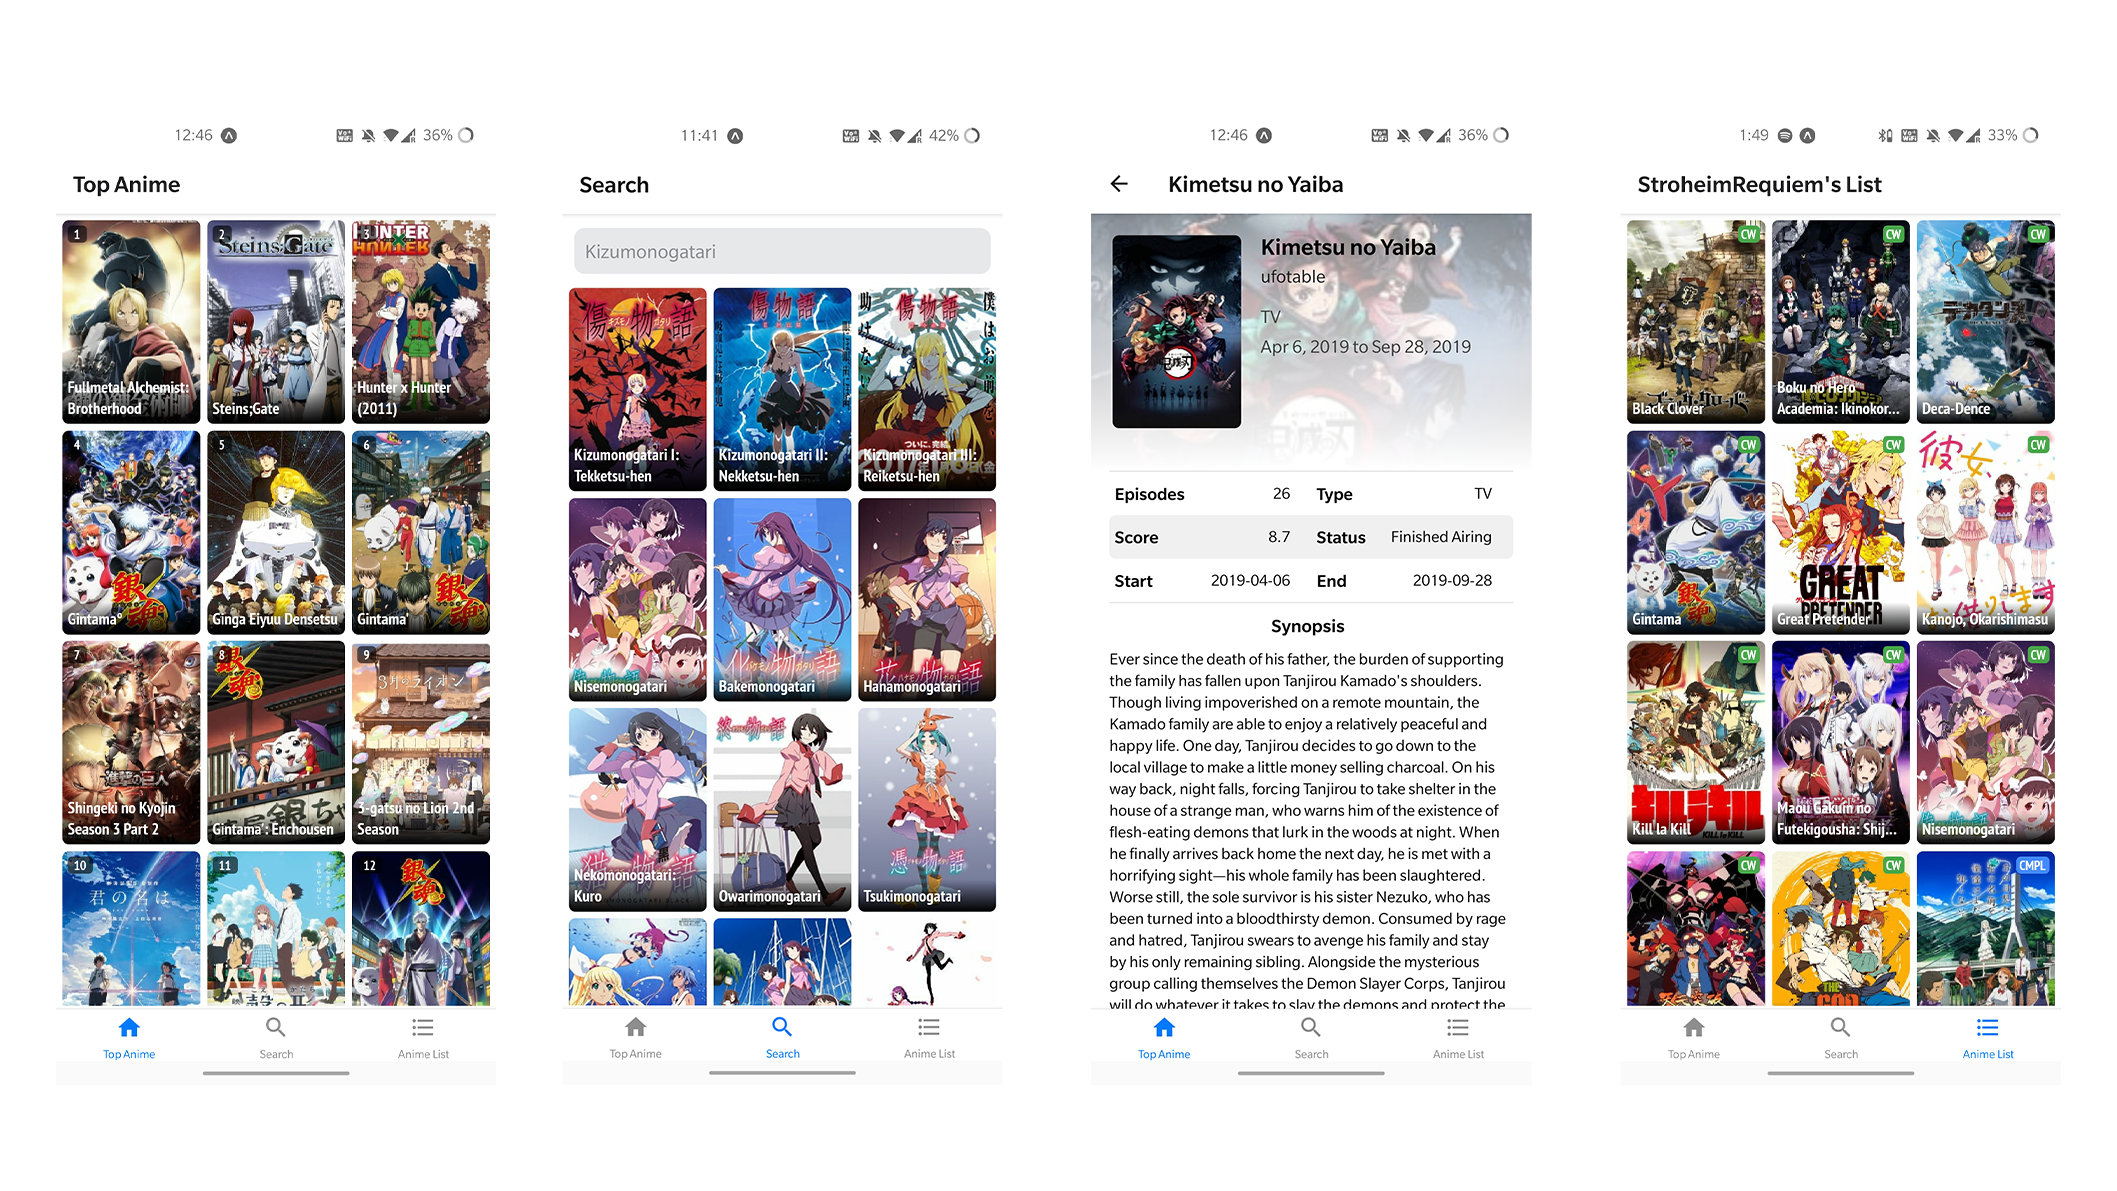
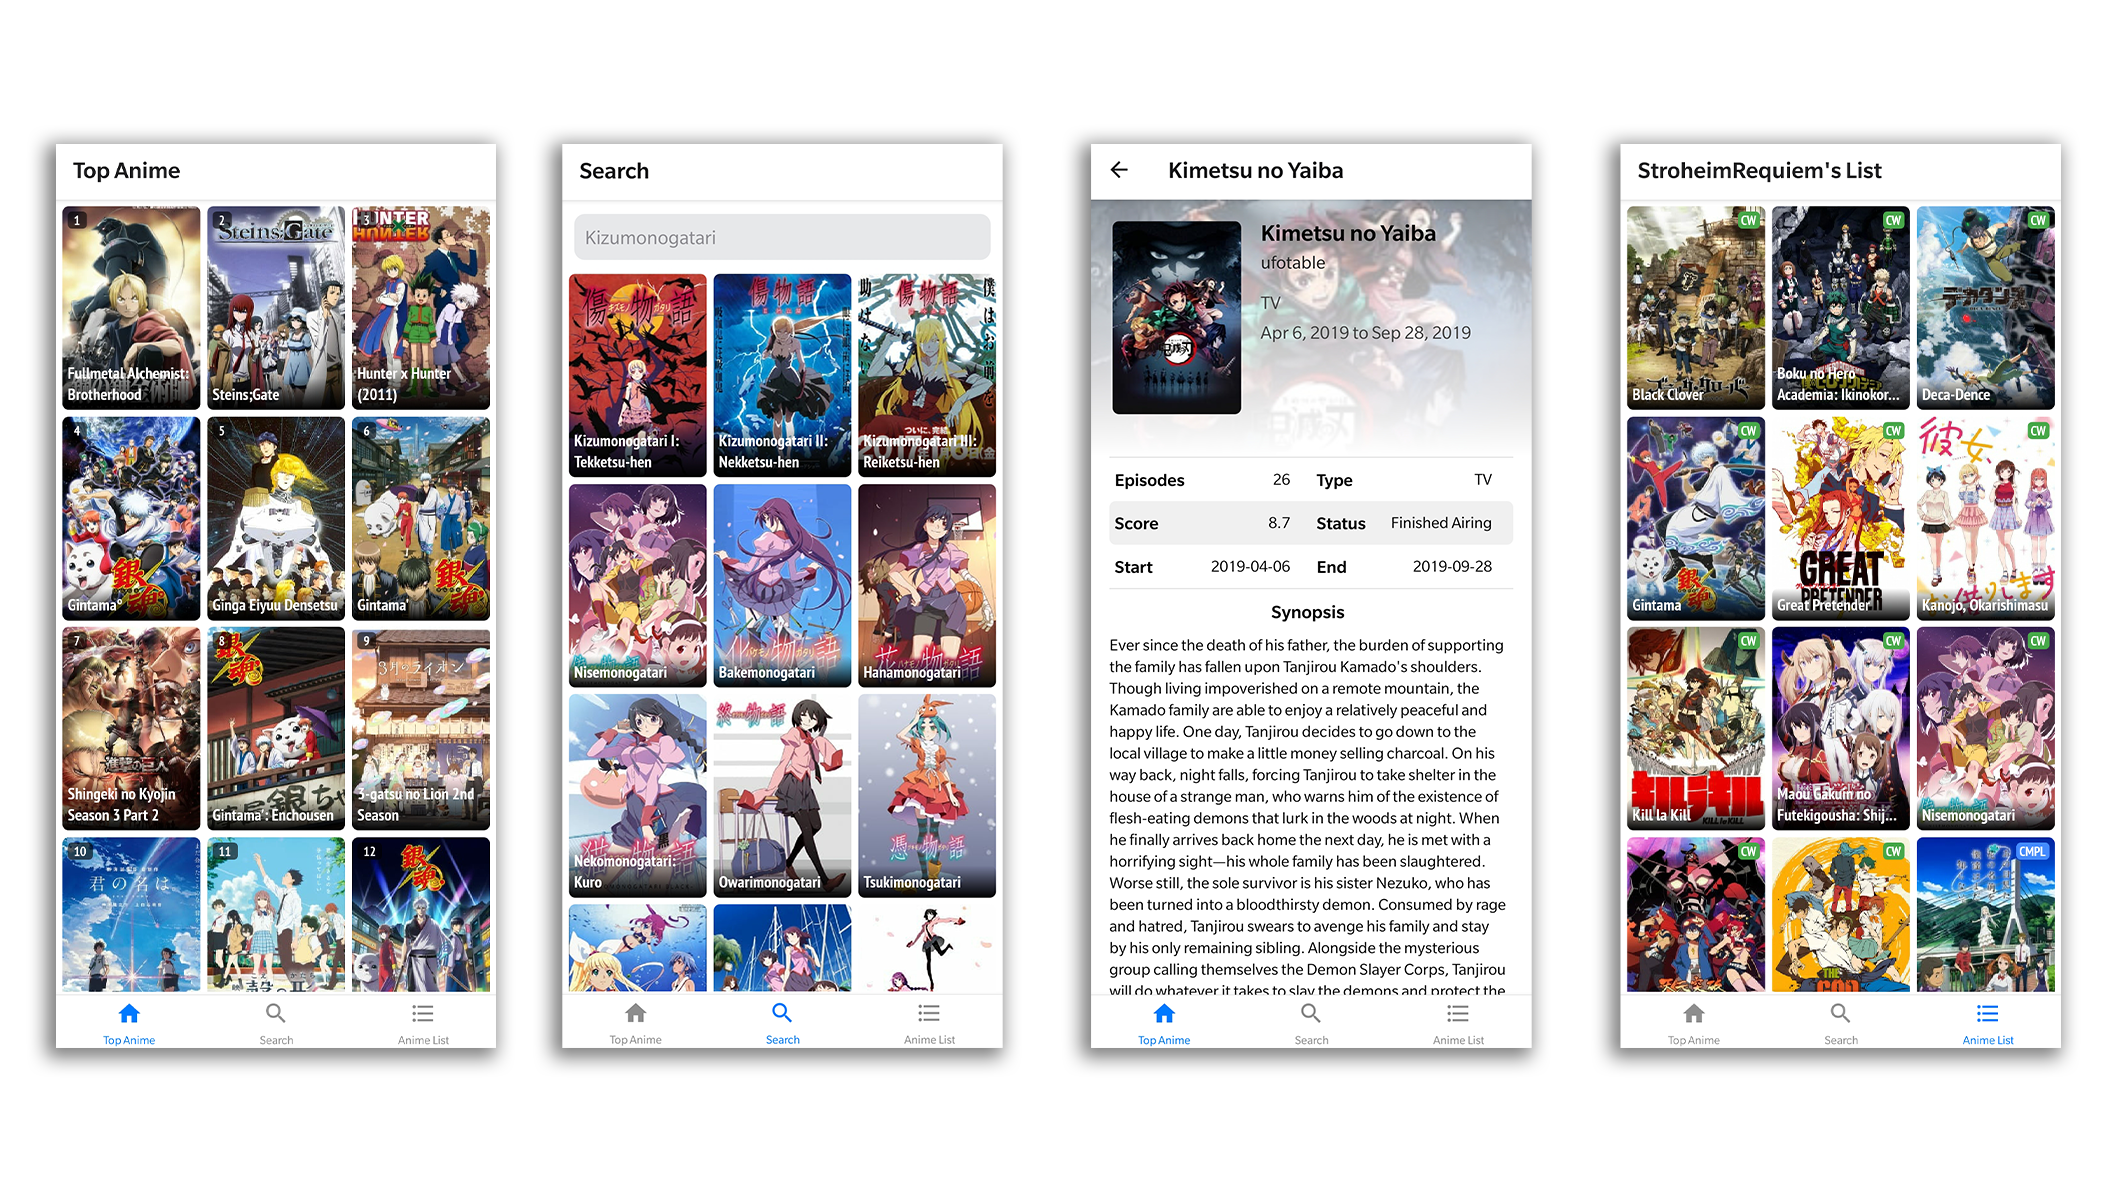
Refactor .map into flatlist

diff --git a/screens/general.js b/screens/general.js
@@ -1,68 +1,79 @@
 import React, { useState, useEffect } from 'react';
 import { StyleSheet, View, Text, Image, ActivityIndicator, ImageBackground, Clipboard, ToastAndroid, ScrollView, Vibration  } from 'react-native';
+import { FlatList } from 'react-native-gesture-handler';
 
 
 export default function General({title}) {
     return (
         <ScrollView>
             <View style={styles.mainContainer}>
-                        <View style={styles.statsContainer}>
-                            <View style={styles.details}>
-                                    <View style={styles.stat}>
-                                        <Text style={styles.episode}>Episodes </Text>
-                                        { title.episodes ?
-                                            <Text>{title.episodes}</Text> :
-                                            <Text>?</Text>
-                                            }
-                                    </View>
-                                    <View style={styles.stat}>
-                                        <Text style={styles.episode}>Type </Text>
-                                        <Text>{title.type}</Text>
-                                    </View>
+                <View style={styles.statsContainer}>
+                    <View style={styles.details}>
+                            <View style={styles.stat}>
+                                <Text style={styles.episode}>Episodes </Text>
+                                { title.episodes ?
+                                    <Text>{title.episodes}</Text> :
+                                    <Text>?</Text>
+                                    }
                             </View>
-                            <View style={styles.details2}>
-                                    <View style={styles.stat}>
-                                        <Text style={styles.episode}>Score </Text>
-                                        <Text>{title.score}</Text>
-                                    </View>
-                                    <View style={styles.stat}>
-                                        <Text style={styles.episode}>Status </Text>
-                                        <Text>{title.status}</Text>
-                                    </View>
+                            <View style={styles.stat}>
+                                <Text style={styles.episode}>Type </Text>
+                                <Text>{title.type}</Text>
                             </View>
-                            <View style={styles.details}>
-                                    <View style={styles.stat}>
-                                        <Text style={styles.episode}>Start </Text>
-                                        <Text>{title.aired.from.substring(0,10)}</Text>
-                                    </View>
-                                    <View style={styles.stat}>
-                                        <Text style={styles.episode}>End </Text>
-                                        { title.aired.to ?
-                                        <Text>{title.aired.to.substring(0,10)}</Text> :
-                                        <Text>?</Text>
-                                        }
-                                    </View>
+                    </View>
+                    <View style={styles.details2}>
+                            <View style={styles.stat}>
+                                <Text style={styles.episode}>Score </Text>
+                                <Text>{title.score}</Text>
                             </View>
-                        </View>
-                        <View style={{marginTop: 10, alignItems: 'center'}}>
+                            <View style={styles.stat}>
+                                <Text style={styles.episode}>Status </Text>
+                                <Text>{title.status}</Text>
+                            </View>
+                    </View>
+                    <View style={styles.details}>
+                            <View style={styles.stat}>
+                                <Text style={styles.episode}>Start </Text>
+                                <Text>{title.aired.from.substring(0,10)}</Text>
+                            </View>
+                            <View style={styles.stat}>
+                                <Text style={styles.episode}>End </Text>
+                                { title.aired.to ?
+                                <Text>{title.aired.to.substring(0,10)}</Text> :
+                                <Text>?</Text>
+                                }
+                            </View>
+                    </View>
+                </View>
+                <View style={styles.genres}>
+                    <FlatList
+                        horizontal 
+                        data={title.genres}
+                        keyExtractor={(item) => item.key}
+                        renderItem={({ item, index }) => (
+                            <Text style={styles.genre}>{item.name}</Text>
+                        )}
+                    />
+                </View>
+                <View style={{marginTop: 10, alignItems: 'center'}}>
+                    <Text style={styles.summary}>
+                        Synopsiss
+                    </Text>
+                    <Text style={styles.synopsis}>
+                        {title.synopsis}
+                    </Text>
+                    { title.background &&
+                        <View>
                             <Text style={styles.summary}>
-                                Synopsiss
+                                Backgroundd
                             </Text>
                             <Text style={styles.synopsis}>
-                                {title.synopsis}
+                                {title.background}
                             </Text>
-                            { title.background &&
-                                <View>
-                                    <Text style={styles.summary}>
-                                        Backgroundd
-                                    </Text>
-                                    <Text style={styles.synopsis}>
-                                        {title.background}
-                                    </Text>
-                                </View>
-                            }
                         </View>
-                    </View>
+                    }
+                </View>
+            </View>
         </ScrollView>
     )
 }
@@ -144,5 +155,18 @@ const styles = StyleSheet.create({
     statsContainer: {
         borderBottomColor: 'rgba(0,0,0,0.1)',
         borderBottomWidth: 1,
+    },
+    genre: {
+        color: 'blue',
+        borderRadius: 24,
+        borderColor: 'blue',
+        borderWidth: 1,
+        paddingHorizontal: 10,
+        marginHorizontal: 2,
+        fontSize: 13,
+        paddingVertical: 1
+    },
+    genres: {
+        marginTop: 10,
     }
 })

diff --git a/screens/stats.js b/screens/stats.js
@@ -1,7 +1,5 @@
-import React, { useState, useEffect } from 'react';
-import { StyleSheet, View, Text, Image, ActivityIndicator, ImageBackground, Clipboard, ToastAndroid, ScrollView, Vibration } from 'react-native';
-import { FlatList } from 'react-native-gesture-handler';
-
+import React from 'react';
+import { StyleSheet, View, Text, SafeAreaView, FlatList } from 'react-native';
 
 export default function General({title}) {
     return (
@@ -34,19 +32,27 @@ export default function General({title}) {
                     </View>
                 </View>
                 <View>
-                    <Text style={styles.heading}>Opening Themes</Text>
                     {title.opening_themes &&
-                        title.opening_themes.map((theme, index) => (
-                            <Text numberOfLines={1} style={[styles.opening, index % 2 !== 0 && styles.bg]}>#{index+1} {theme}</Text>
-                        ))
+                        <FlatList 
+                            data={title.opening_themes}
+                            keyExtractor={(item) => item.key}
+                            renderItem={({ item, index }) => (
+                                <Text numberOfLines={1} style={[styles.opening, index % 2 !== 0 && styles.bg]}>{item}</Text>
+                            )}
+                            ListHeaderComponent={() => <Text style={styles.heading}>Opening Themes</Text>}
+                        />
                     }
                 </View>
                 <View>
-                    <Text style={styles.heading}>Ending Themes</Text>
                     {title.ending_themes &&
-                        title.ending_themes.map((theme, index) => (
-                            <Text numberOfLines={1} style={[styles.opening, index % 2 !== 0 && styles.bg]}>#{index+1} {theme}</Text>
-                        ))
+                        <FlatList 
+                        data={title.ending_themes}
+                        keyExtractor={(item) => item.key}
+                        renderItem={({ item, index }) => (
+                            <Text numberOfLines={1} style={[styles.opening, index % 2 !== 0 && styles.bg]}>{item}</Text>
+                        )}
+                        ListHeaderComponent={() => <Text style={styles.heading}>Ending Themes</Text>}
+                    />
                     }
                 </View>
             </View>
@@ -64,7 +70,7 @@ const styles = StyleSheet.create({
         textAlign: 'center', 
         fontWeight: 'bold', 
         fontSize: 16, 
-        marginVertical: 7
+        marginVertical: 10
     },
     genre: {
         borderRadius: 6,

diff --git a/screens/search.js b/screens/search.js
@@ -1,8 +1,7 @@
-import React, { useState, useEffect } from 'react';
+import React, { useState } from 'react';
 import { StyleSheet, View, Text, ActivityIndicator, FlatList, TouchableOpacity, Modal, TextInput, TouchableWithoutFeedback, Keyboard, ImageBackground } from 'react-native';
-import { MaterialIcons } from '@expo/vector-icons';
 import { LinearGradient } from "expo-linear-gradient";
-import MaterialCommunityIcons from 'react-native-vector-icons/MaterialCommunityIcons';
+import SearchBar from "react-native-dynamic-search-bar";
 
 export default function Details({ route, navigation }) {
 
@@ -20,11 +19,14 @@ export default function Details({ route, navigation }) {
 
     return (
         <View style={styles.container}>
-            <TextInput 
-                style={styles.textInput}
-                placeholder='Search Anime'
-                onChangeText={getTitles}
-            />
+            <SearchBar
+              iconColor="#3f51b5"
+              placeholder="Search here"
+              onChangeText={getTitles}
+              onPressCancel={() => {
+                setTitles([]);
+              }}
+              onPressToFocus              />
             {isLoading ? <ActivityIndicator/> : (
             <FlatList
                 contentContainerStyle={styles.list}
@@ -77,6 +79,9 @@ const styles = StyleSheet.create({
         margin: 8,
         marginVertical: 10,
         paddingHorizontal: 10,
+     },
+     list: {
+         marginTop: 15,
      },
      opac: {
         height: 190,

diff --git a/navigation/bottomTabs.js b/navigation/bottomTabs.js
@@ -1,5 +1,5 @@
 import React from 'react';
-import { NavigationContainer } from '@react-navigation/native';
+import { NavigationContainer, DefaultTheme, DarkTheme } from '@react-navigation/native';
 import { AppearanceProvider, useColorScheme } from 'react-native-appearance';
 import { createBottomTabNavigator } from '@react-navigation/bottom-tabs';
 import HomeStack from './homeStack';
@@ -11,9 +11,9 @@ import MaterialCommunityIcons from 'react-native-vector-icons/MaterialCommunityI
 const Tab = createBottomTabNavigator();
 
 function BottomTabsNavigator() {
-
-
+  // const scheme = useColorScheme();
   return (
+    <AppearanceProvider>
       <NavigationContainer>
         <Tab.Navigator>
           <Tab.Screen 
@@ -44,6 +44,7 @@ function BottomTabsNavigator() {
           />
         </Tab.Navigator>
       </NavigationContainer>
+    </AppearanceProvider>
   );
 }
 

diff --git a/screens/home.js b/screens/home.js
@@ -1,6 +1,5 @@
 import React, { useState, useEffect } from 'react';
 import { StyleSheet, ActivityIndicator, View, Text, FlatList, TouchableOpacity, ImageBackground } from 'react-native';
-import { MaterialIcons } from '@expo/vector-icons';
 import { LinearGradient } from "expo-linear-gradient";
 
 export default function Home({ navigation }) {
